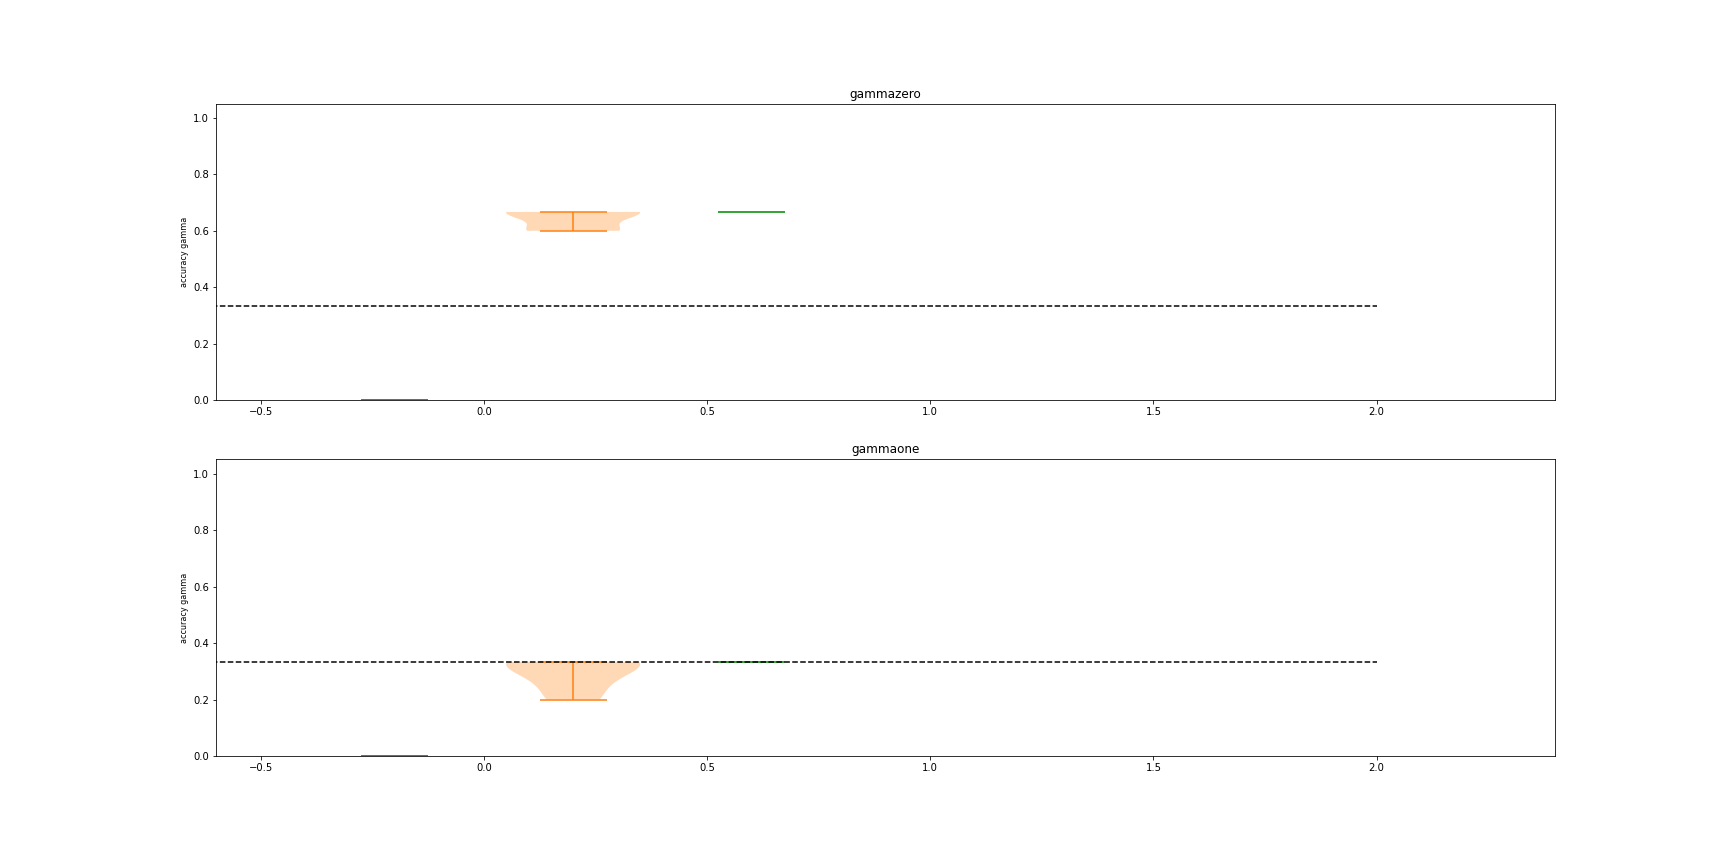
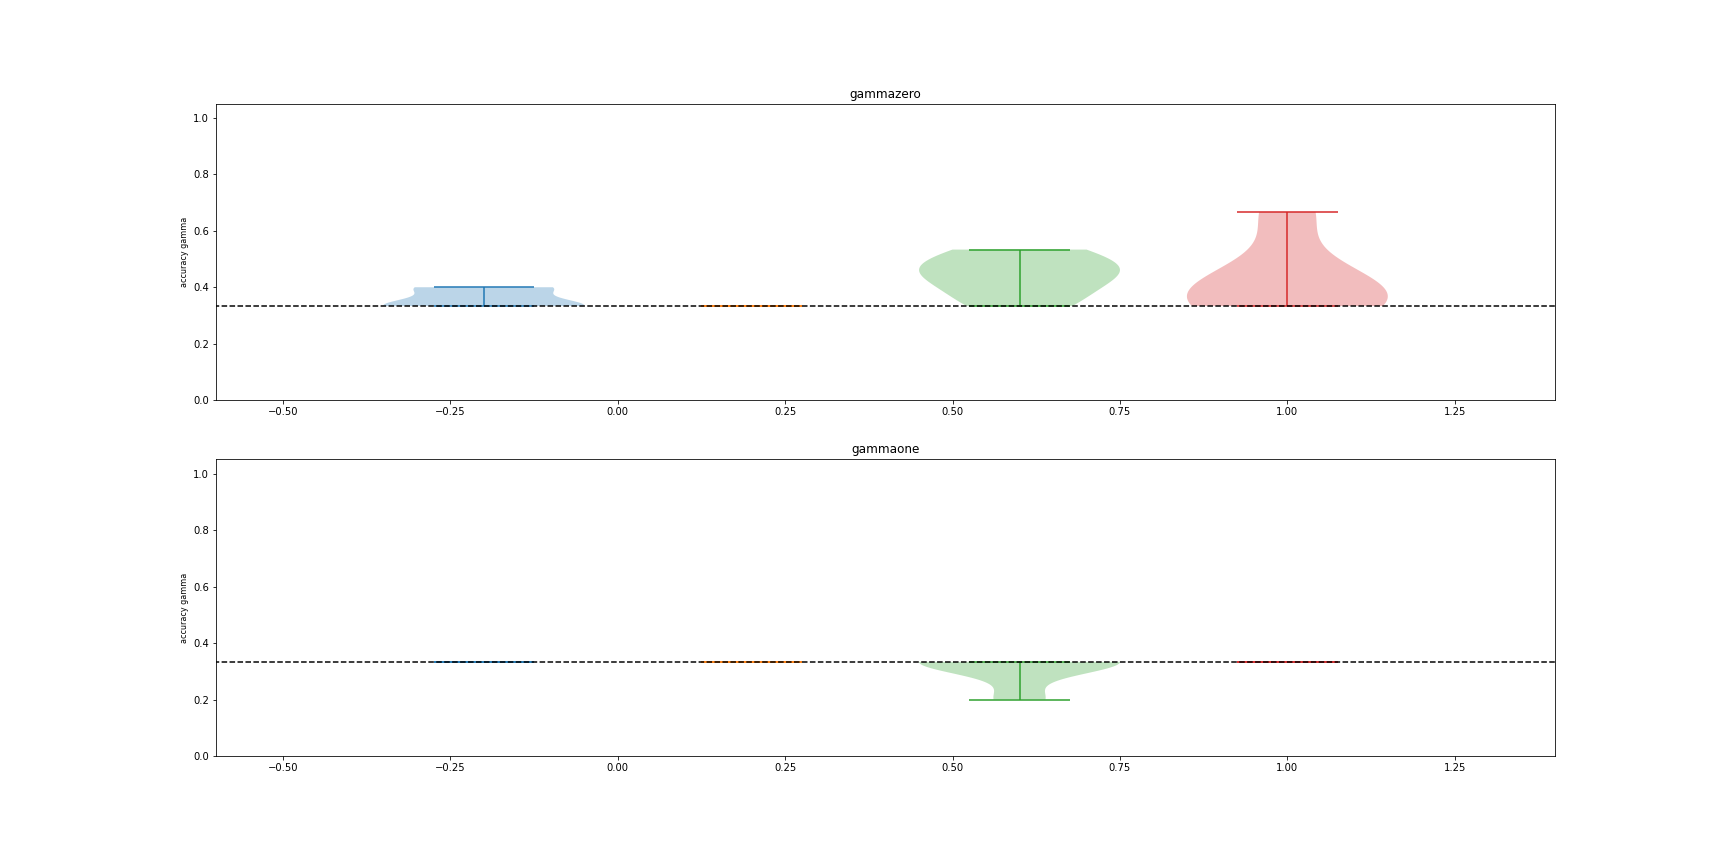
added bottleneck clf

diff --git a/intensities_pipe.py b/intensities_pipe.py
@@ -38,10 +38,11 @@ def intensity(subj_dir,space,ts_band,labels,i_band):
 
     for i_rep in range(n_rep):
         for ind_train, ind_test in cv_schem.split(ts_intens,labels):
+            
             X_train=ts_intens[ind_train]
             y_train=labels[ind_train]
             pred=np.zeros(len(ind_train))
-            pred_array=np.zeros((len(ind_test),3,2,3))
+            pred_array=np.zeros((len(ind_test),n_vectors+1,n_dim,3))
             for i_motiv  in range(3):
                 X_motiv.append(X_train[y_train==i_motiv])
                 n_coor=X_motiv[i_motiv].shape[0]
@@ -68,6 +69,7 @@ def intensity(subj_dir,space,ts_band,labels,i_band):
                         tda_compt=feat_vect[i_vector]
                         tda_compt.fit([dim_persistence])
                         tda_vect[i_vector][i_dim]=tda_compt.transform([dim_persistence])
+                    tda_vect[n_vectors][i_dim]=dim_persistence
             i=0
             for index in ind_test:
                 for i_motiv  in range(3):
@@ -97,20 +99,17 @@ def intensity(subj_dir,space,ts_band,labels,i_band):
                             tda_compt.fit([dimensional_persistence])
                             
                             pred_array[i,i_vector,i_dim,i_motiv]=np.linalg.norm(tda_compt.transform([dimensional_persistence])-tda_vect[i_vector][i_dim])
+                        pred_array[i,n_vectors,i_dim,i_motiv]=gd.bottleneck_distance(dimensional_persistence,tda_vect[n_vectors][i_dim],0.01)
                 i=i+1
         
     
-            for i_vector in range(n_vectors):
+            for i_vector in range(n_vectors+1):
                 for i_dim in range(n_dim):
                     pred=np.argmin(np.array(pred_array[:,i_vector,i_dim,:]),axis=1)
                     
-                    perf[i_dim,i_vector+1,i_rep] = skm.accuracy_score(pred, labels[ind_test])
-                    conf_matrix[i_dim,i_vector+1,i_rep,:,:] += skm.confusion_matrix(y_true=labels[ind_test], y_pred=pred) 
+                    perf[i_dim,i_vector,i_rep] = skm.accuracy_score(pred, labels[ind_test])
+                    conf_matrix[i_dim,i_vector,i_rep,:,:] += skm.confusion_matrix(y_true=labels[ind_test], y_pred=pred) 
         
-            '''
-            pred=##bottleneck 1nn
-            perf[i_dim,i_vector+1,i_rep] = #bottleneck 1nn
-            conf_matrix[i_dim,i_vector+1,i_rep,:,:] += #bottleneck 1nn'''
         
         # save results       
     np.save(subj_dir+space+'/perf_intensity.npy',perf)
@@ -135,12 +134,13 @@ def intensity(subj_dir,space,ts_band,labels,i_band):
         axes[i_dim].violinplot(perf[i_dim,0,:],positions=[-0.2],widths=[0.3])
         axes[i_dim].violinplot(perf[i_dim,1,:],positions=[0.2],widths=[0.3])
         axes[i_dim].violinplot(perf[i_dim,2,:],positions=[0.6],widths=[0.3])
+        axes[i_dim].violinplot(perf[i_dim,3,:],positions=[1],widths=[0.3])
         #axes[i_dim].violinplot(perf[i_dim,3,:],positions=[1],widths=[0.3])
 
 
         
         axes[i_dim].plot([-1,2],[chance_level]*2,'--k')
-        axes[i_dim].axis(xmin=-0.6,xmax=2.4,ymin=0,ymax=1.05)
+        axes[i_dim].axis(xmin=-0.6,xmax=1.4,ymin=0,ymax=1.05)
 
         axes[i_dim].set_ylabel('accuracy '+band,fontsize=8)
         axes[i_dim].set_title(band+dimensions[i_dim])
